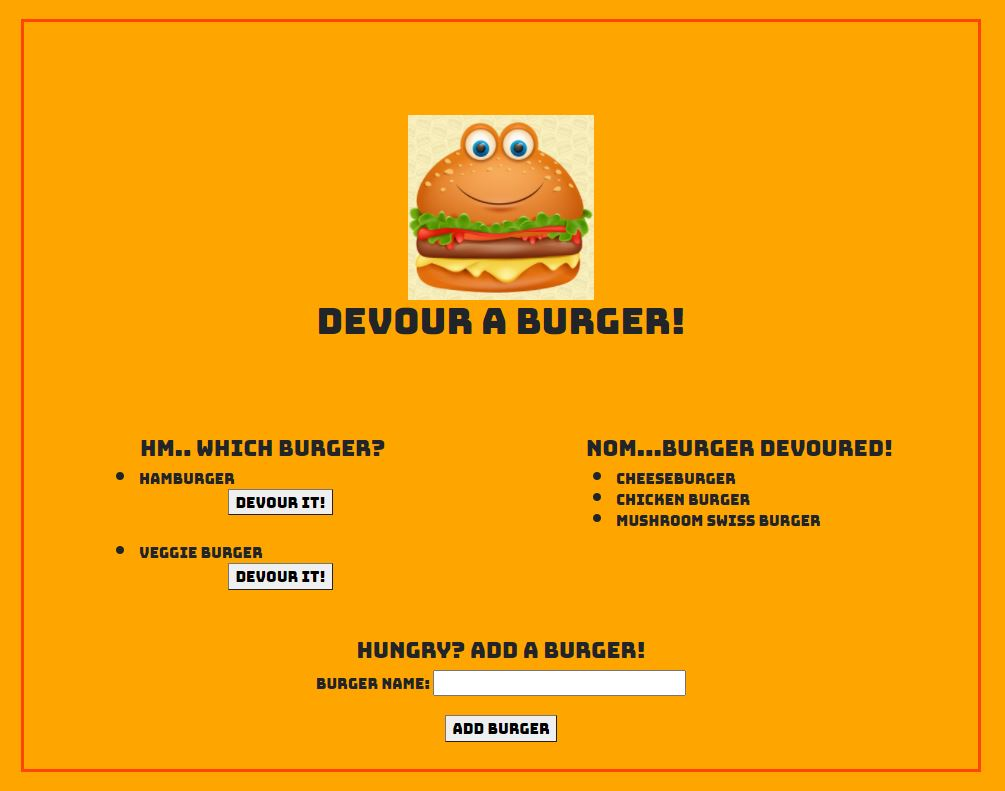
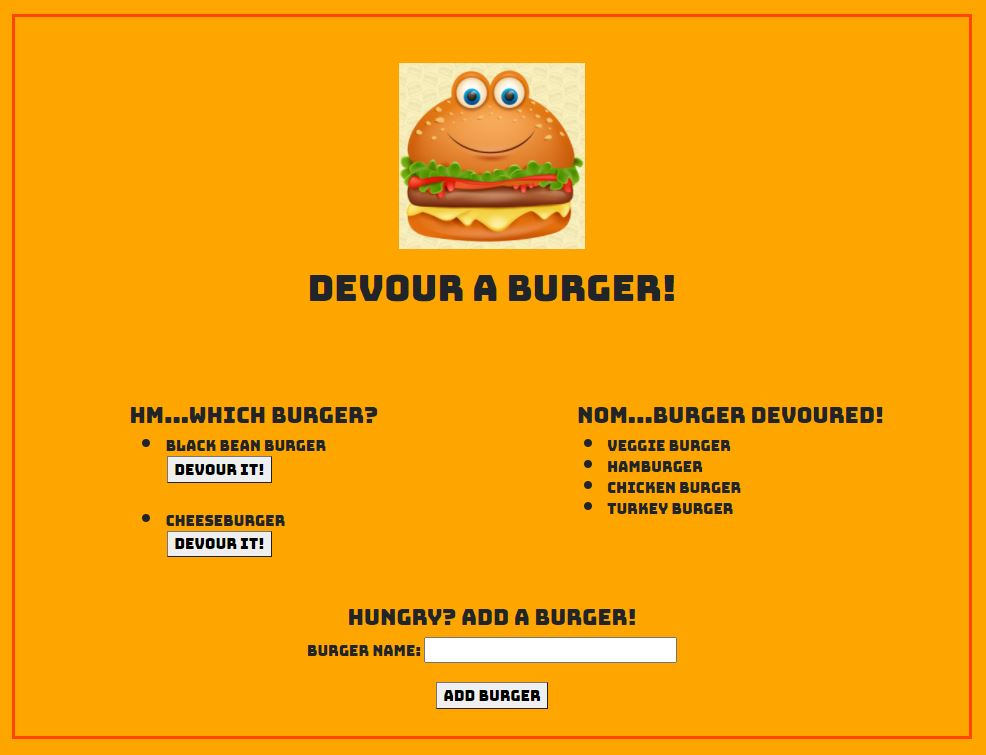
updated style and updated readme

diff --git a/public/assets/css/style.css b/public/assets/css/style.css
@@ -22,6 +22,13 @@ body {
     margin-right: 5%
 }
 
+.burgs2 {
+    margin-left: 15%;
+}
+
+.devouredBtn {
+    margin-right: 60%;
+}
 
 button {
     margin: 0 auto;
@@ -31,8 +38,6 @@ button {
 
 img {
     display: block;
-    margin-left: auto;
-    margin-right: auto;
-    margin-top: 10%;
+    margin: 5% auto 2% auto;
     width: 20%;
   }

diff --git a/README.md b/README.md
@@ -1,1 +1,24 @@
-# burger-logger
+# Devour a Burger!
+
+## Description
+Using a MVC design pattern,  MySQL, Node, Express, Handlebars and ORM will be used to create a burger logger. User will be able to add a burger and let sit in queue. When the user designs which burger they want to devour, they can click a button and have the burger devoured.
+
+
+## Installation
+npm install
+
+
+## License
+MIT
+
+## Heroku Link
+https://radiant-wave-21711.herokuapp.com/
+
+## Screenshot
+<img src=".img/screenshot.JPG">
+
+
+## Questions:
+If you have any questions, please feel free to email me at vsomsouk@gmail.com.
+
+
